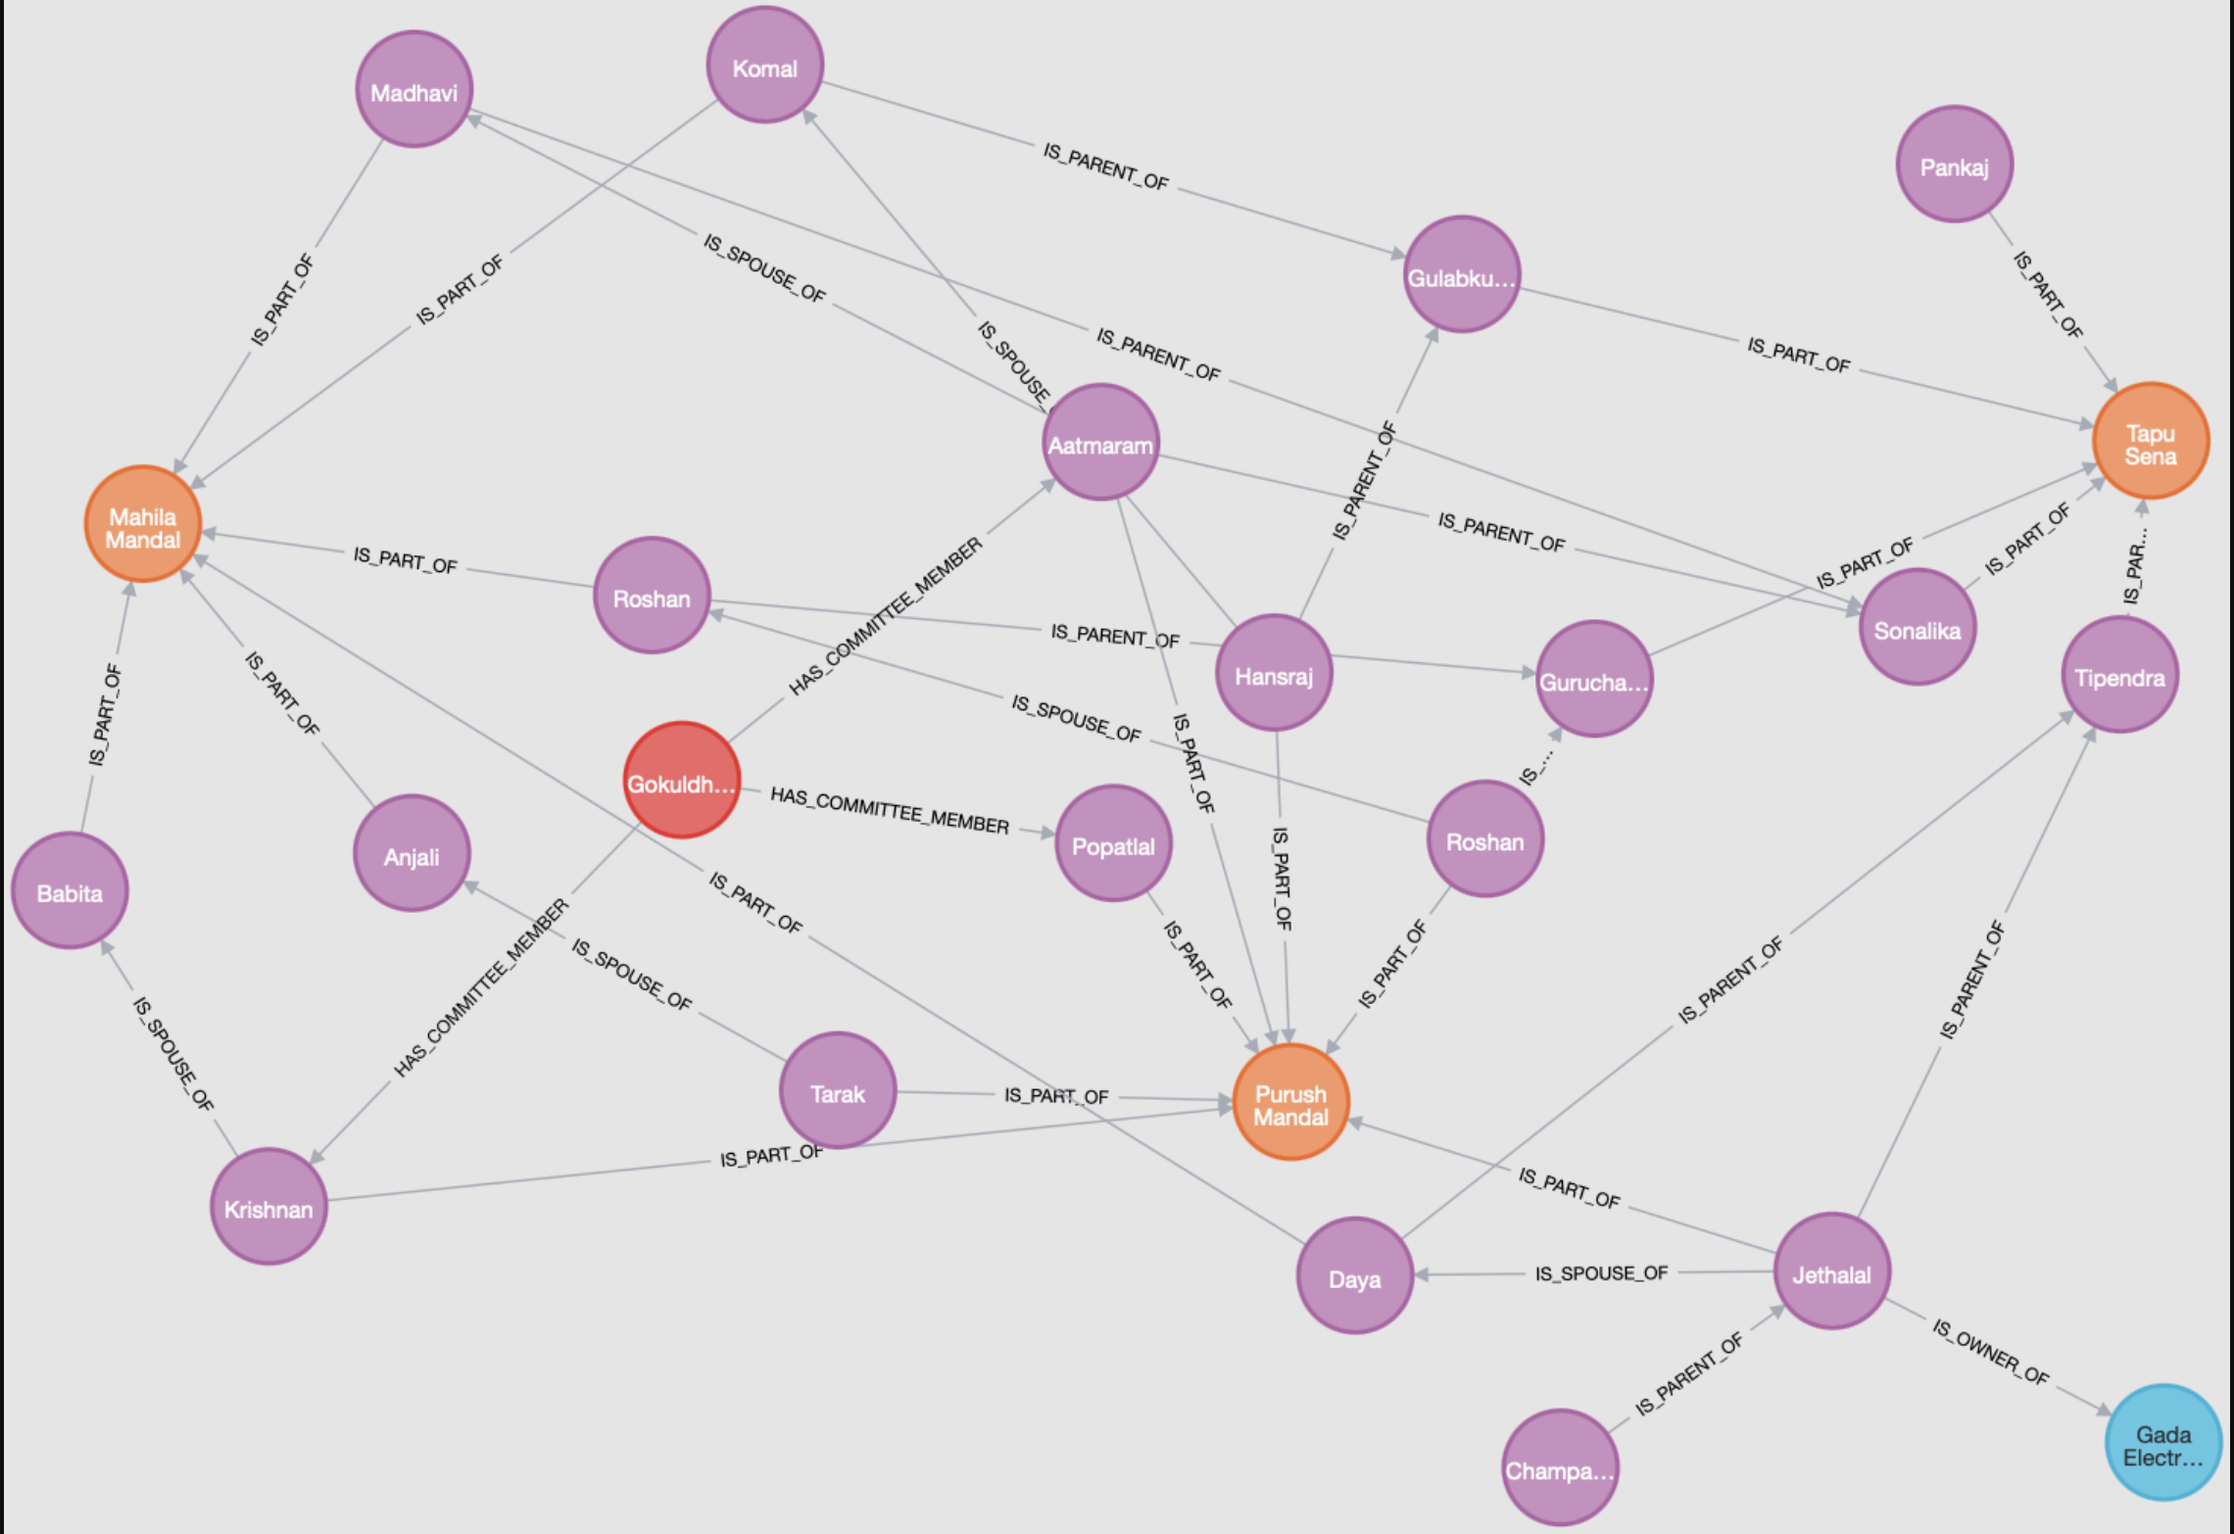
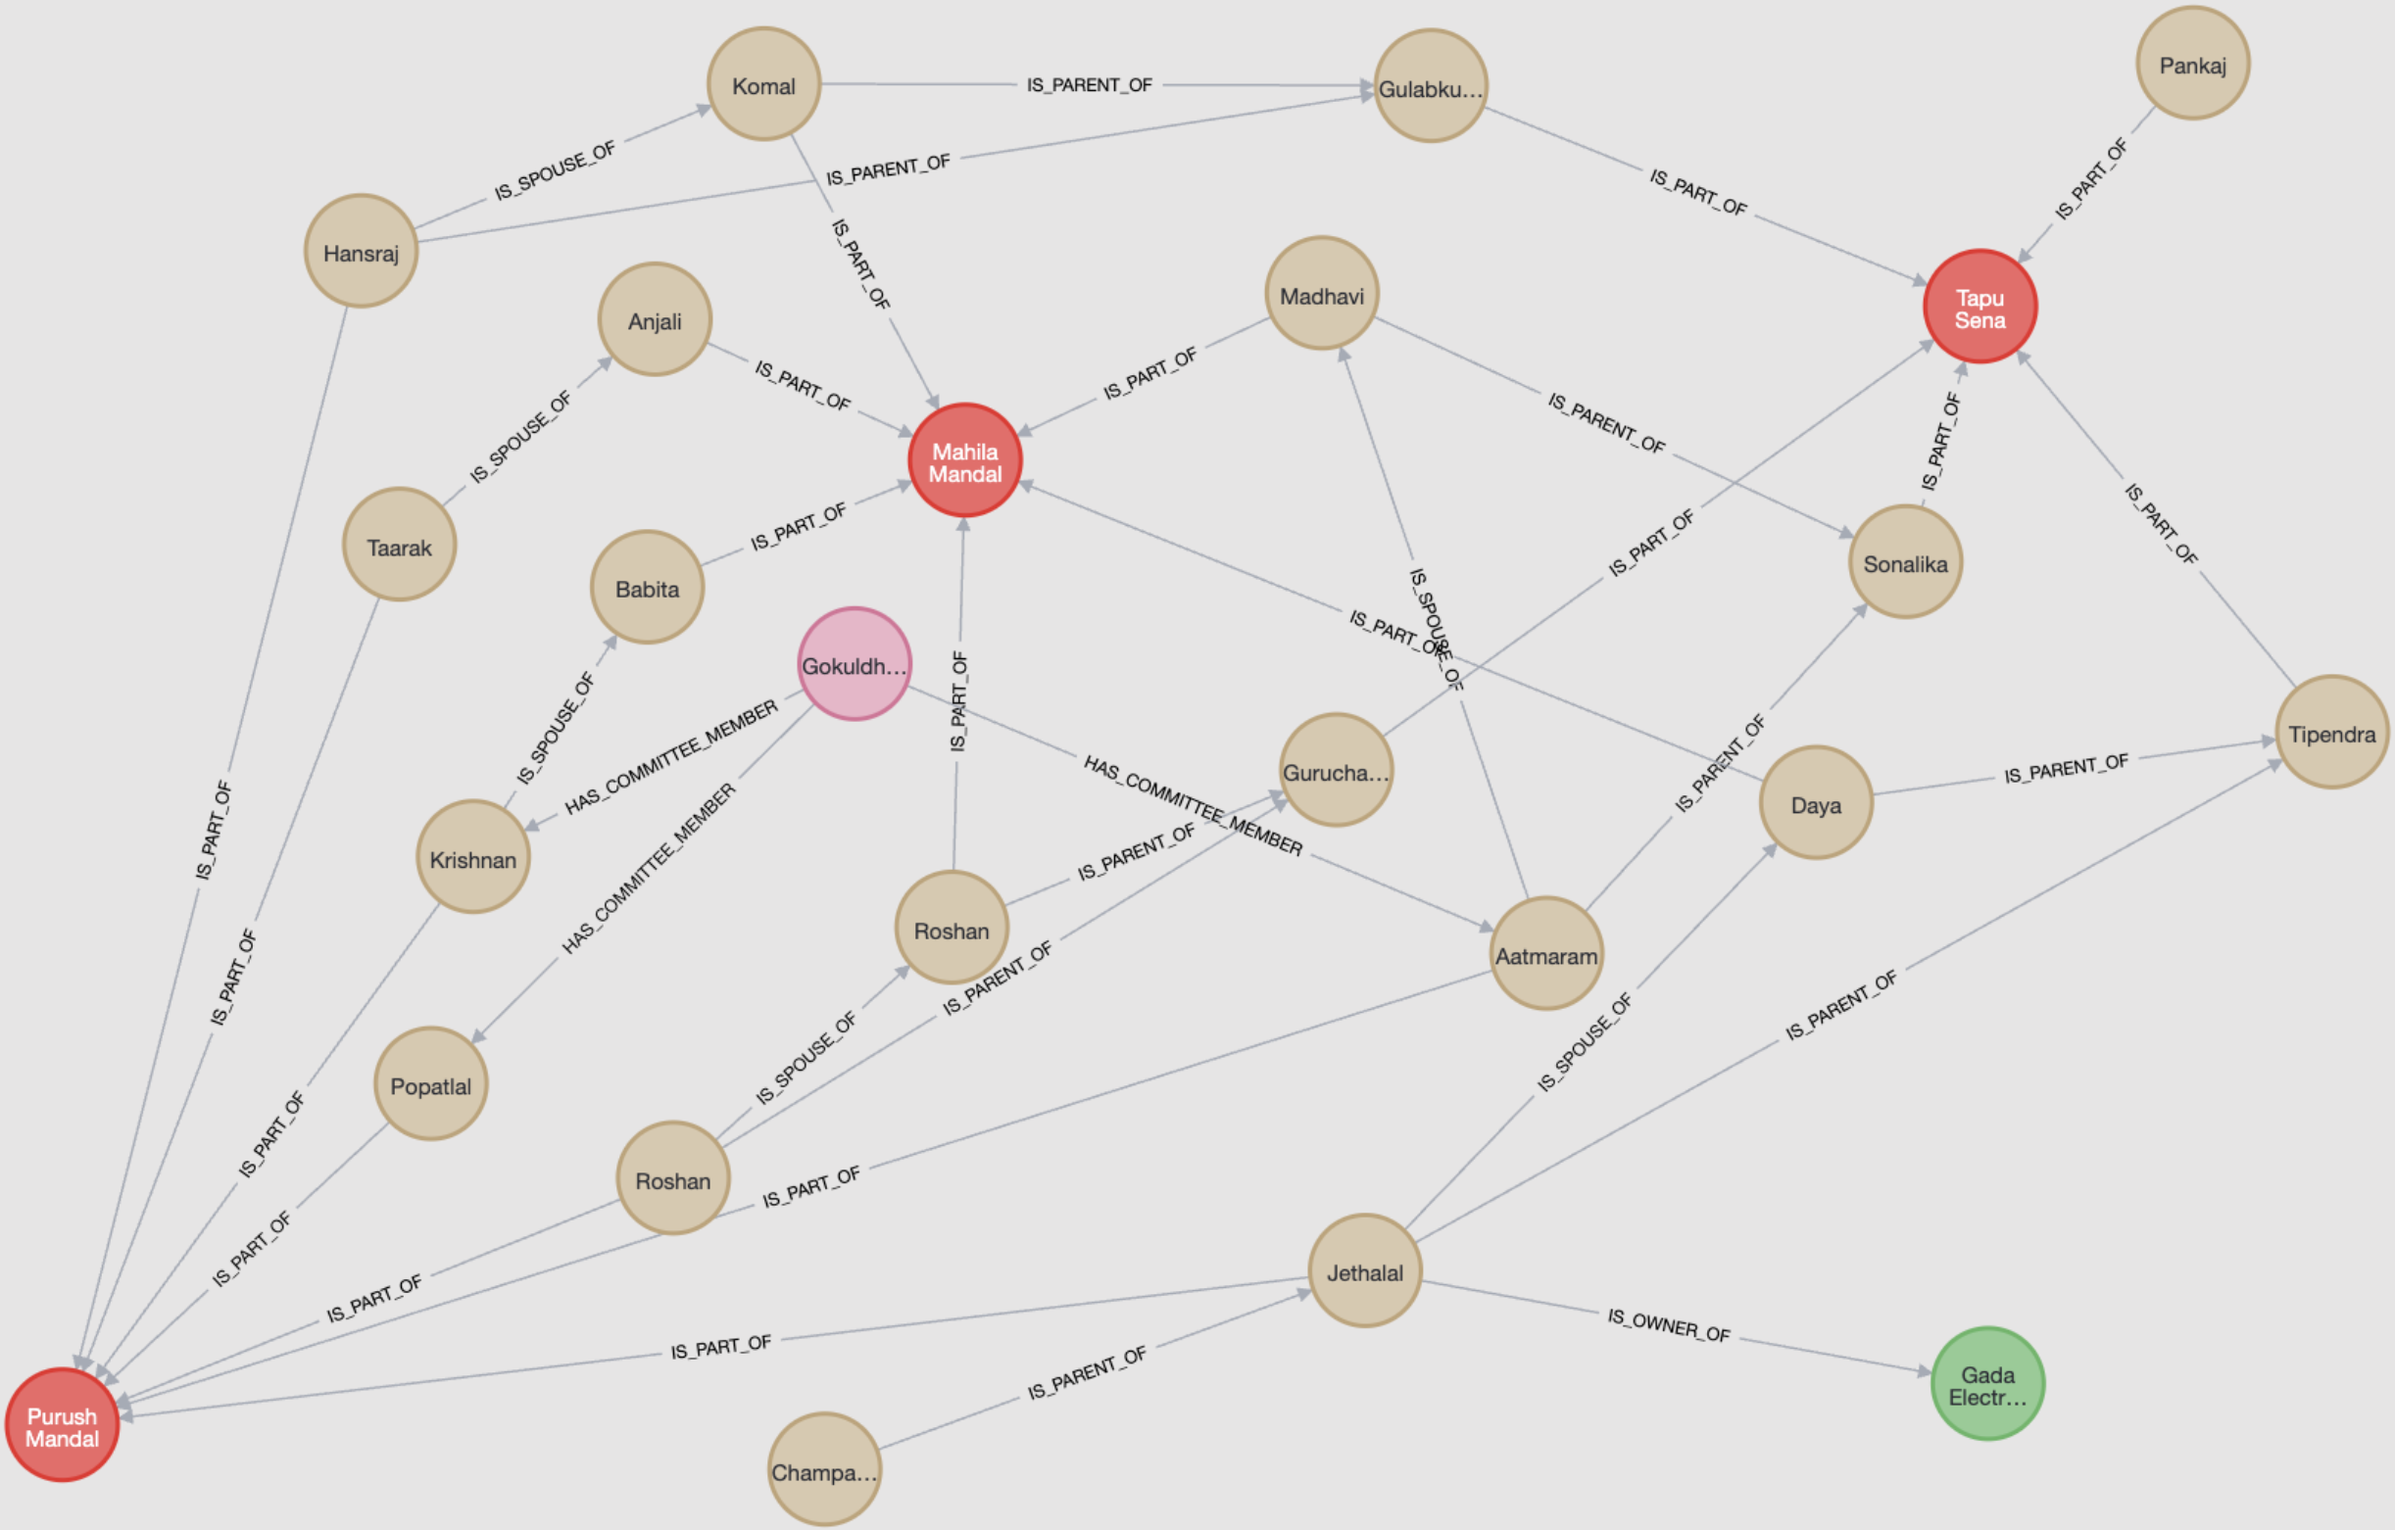
v5

diff --git a/create_kg.py b/create_kg.py
@@ -64,9 +64,9 @@ def create_nodes():
     gurucharand.parents.connect(roshan_m)
     gurucharand.parents.connect(roshan_f)
 
-    tarak: Person = Person(first_name="Tarak", surname="Mehta", gender="M").save()
+    taarak: Person = Person(first_name="Taarak", surname="Mehta", gender="M").save()
     anjali: Person = Person(first_name="Anjali", surname="Mehta", gender="F").save()
-    tarak.spouse.connect(anjali)
+    taarak.spouse.connect(anjali)
 
     krishnan: Person = Person(first_name="Krishnan", surname="Iyer", gender="M").save()
     babita: Person = Person(first_name="Babita", surname="Iyer", gender="F").save()
@@ -89,7 +89,7 @@ def create_nodes():
     aatmaram.groups.connect(purush_mandal)
     hansraj.groups.connect(purush_mandal)
     roshan_m.groups.connect(purush_mandal)
-    tarak.groups.connect(purush_mandal)
+    taarak.groups.connect(purush_mandal)
     krishnan.groups.connect(purush_mandal)
     popatlal.groups.connect(purush_mandal)
 

diff --git a/llm.py b/llm.py
@@ -10,7 +10,7 @@ llms_with_params: list[tuple[Type[LLM], dict]] = [
     (AzureAIInferenceLLM, {"model": "llama3.1 8"}),
 ]
 
-llm_index_to_use = 0
+llm_index_to_use = 1
 
 llm_with_param = llms_with_params[llm_index_to_use]
 

diff --git a/README.md b/README.md
@@ -35,7 +35,7 @@ A: The secretary is Aatmaram Bhide.
 
 ```
 Q: Anjali chya navryacha nav kay?
-A: Anjali chya navryacha nav Tarak Mehta ahe.
+A: Anjali chya navryacha nav Taarak Mehta ahe.
 ```
 
 ```
